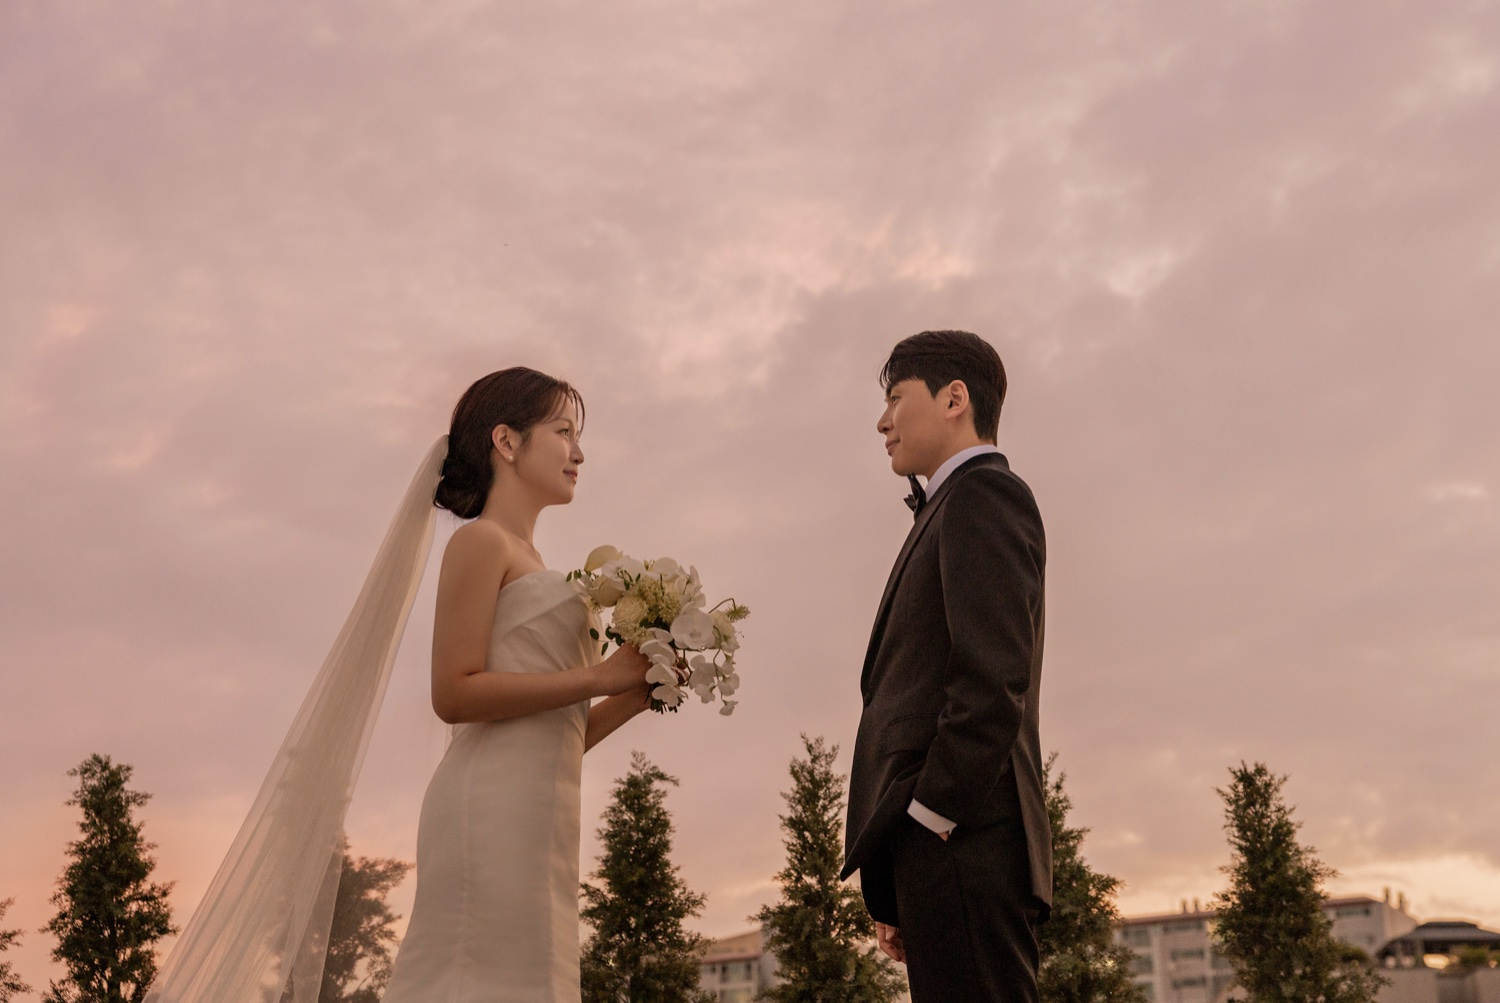
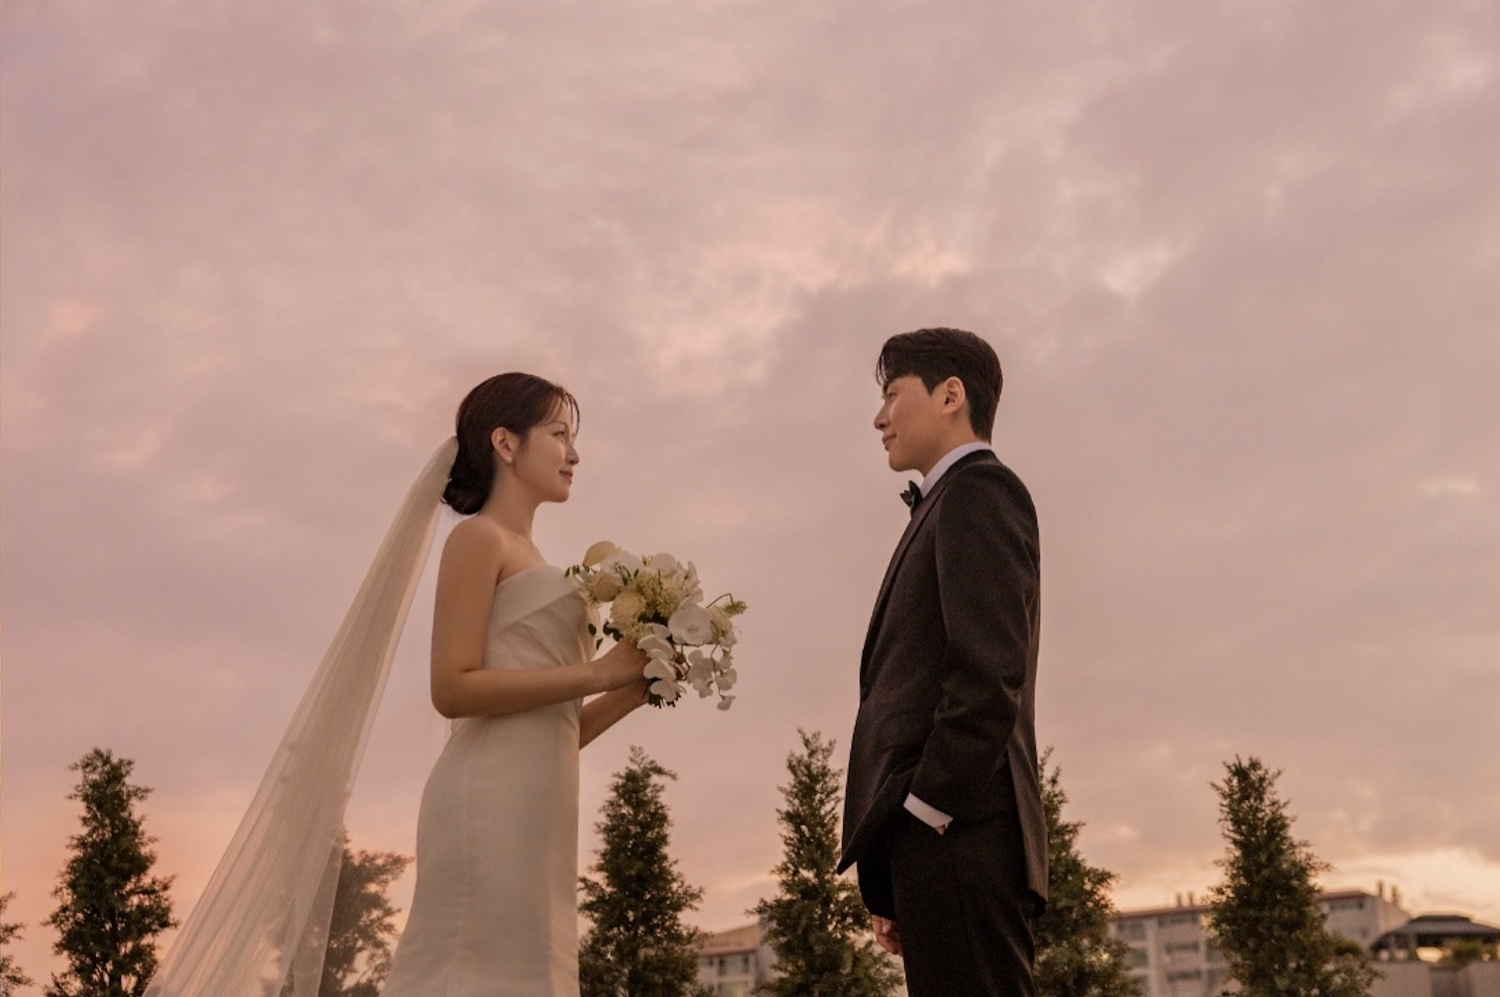
16번 사진 교체 + 전체보기 버튼 장수 표기 22장으로 수정

diff --git a/w/index.html b/w/index.html
@@ -1517,7 +1517,7 @@ footer a { color: #888; text-decoration: none; margin-top: 8px; display: inline-
         var more = document.getElementById('galleryMore');
         var btn = document.getElementById('galleryShowAll');
         var expanded = more.classList.toggle('expanded');
-        btn.textContent = expanded ? '접기' : '전체 사진 보기 (17장)';
+        btn.textContent = expanded ? '접기' : '전체 사진 보기 (22장)';
     }
 
     function openPhoto(src) {
